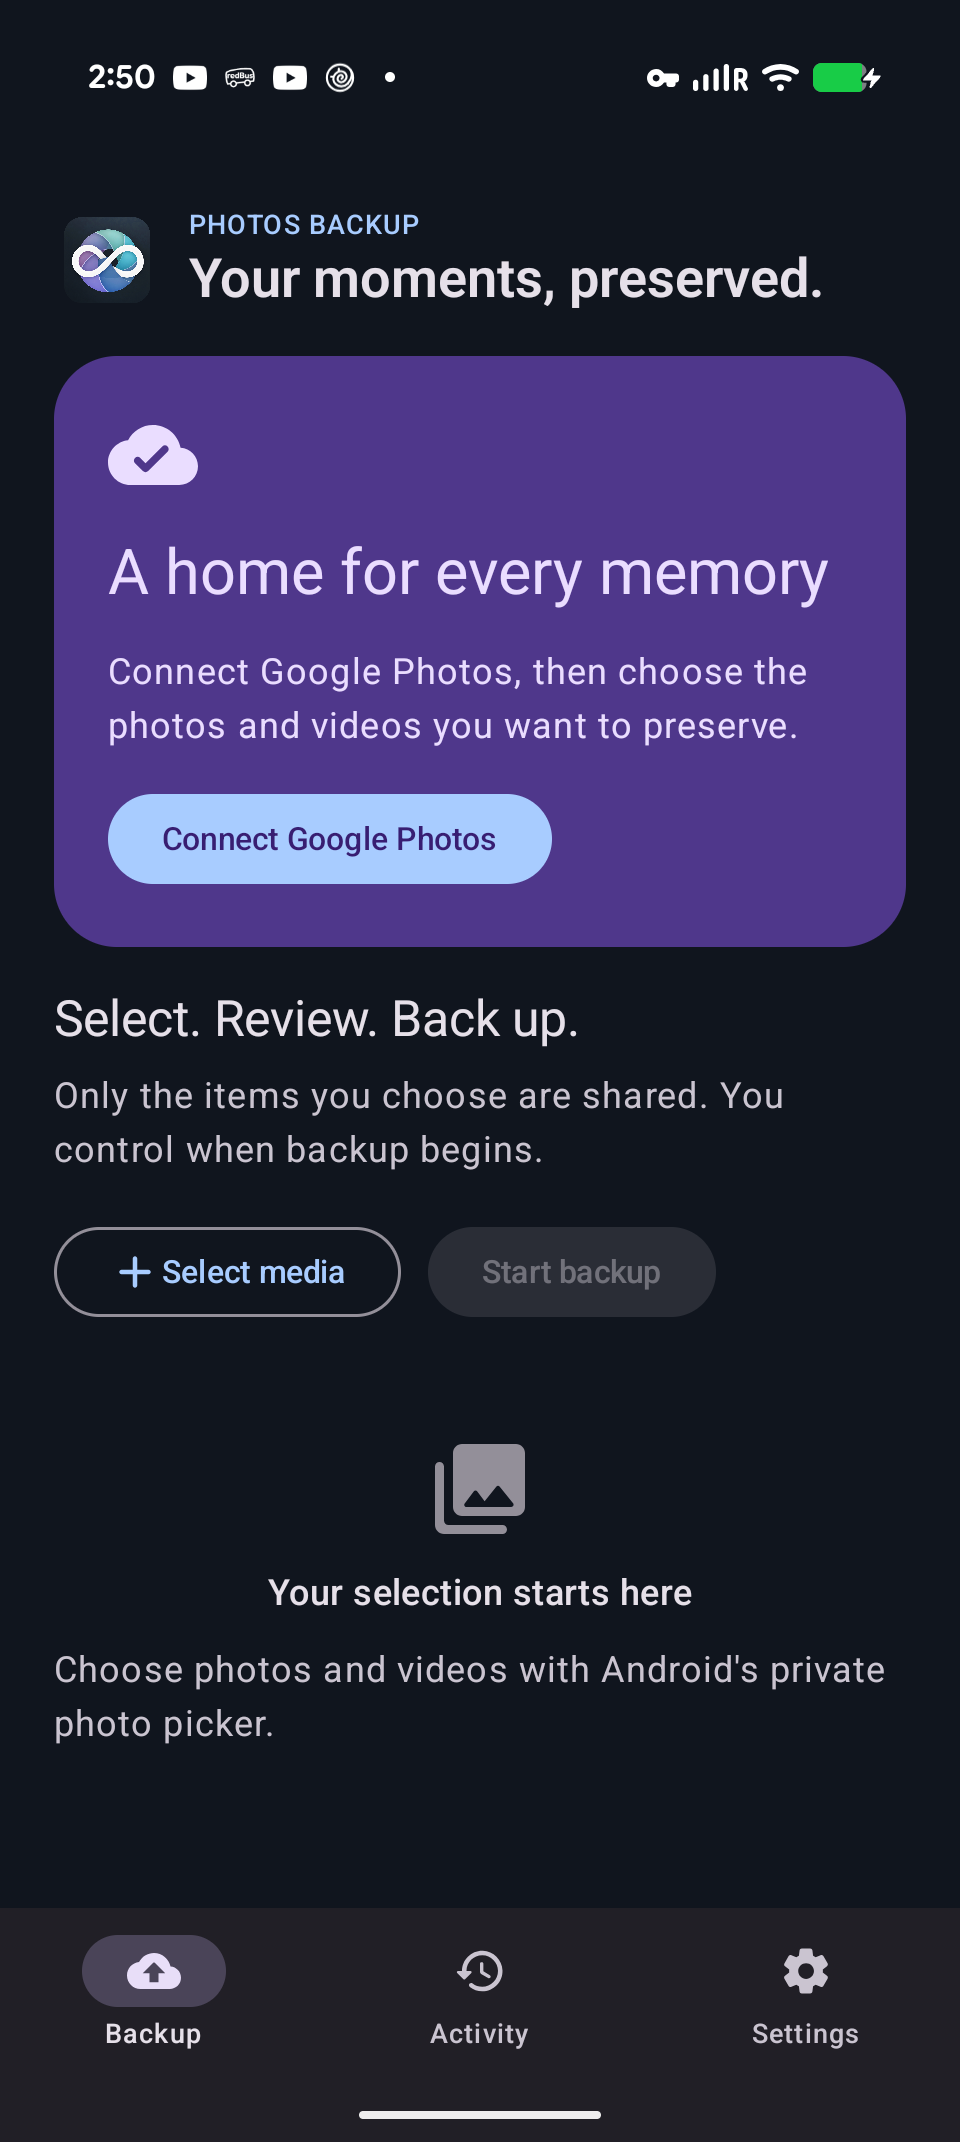
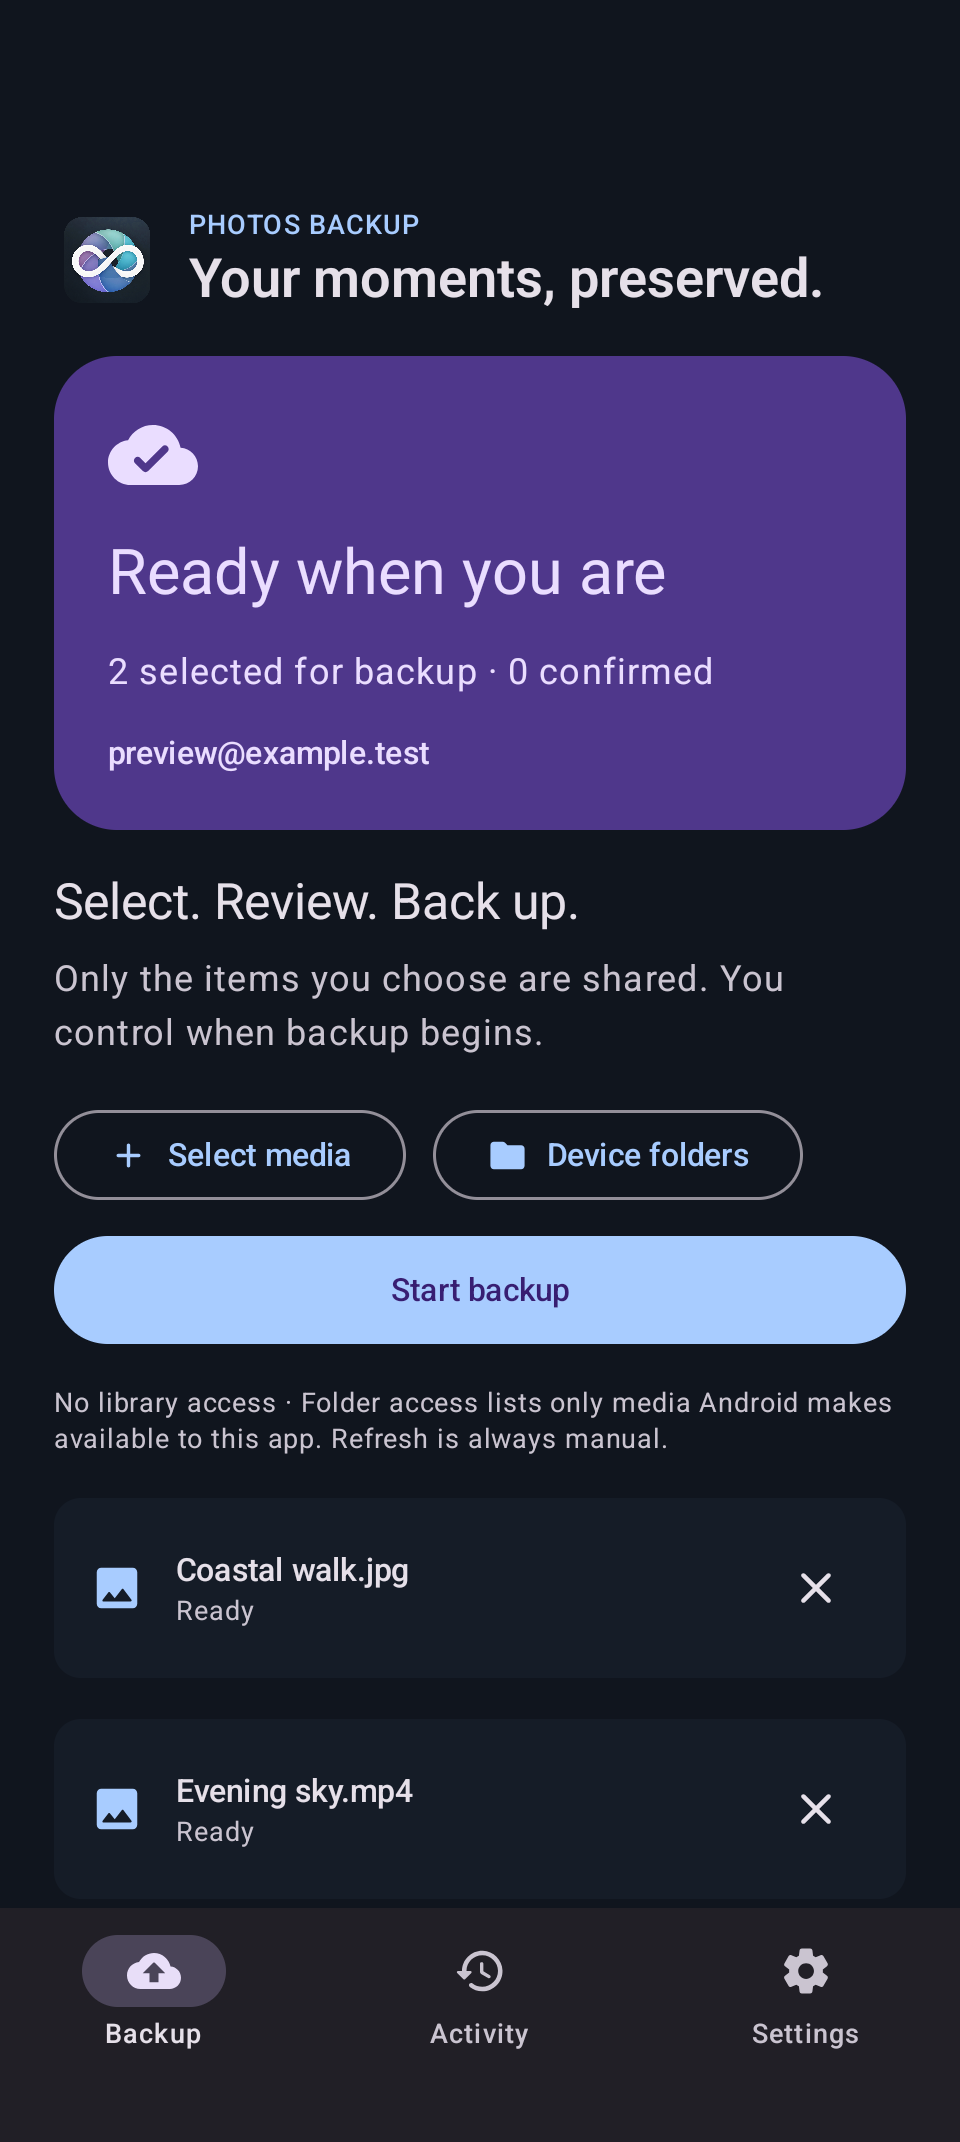
docs: show verified Android layout and device results

diff --git a/docs/VALIDATION-v0.5.0.md b/docs/VALIDATION-v0.5.0.md
@@ -8,13 +8,13 @@ Checked on 16 October 2026. These results describe a preview; v0.4.0 remains the
 | Windows connected Pixel import | Production portable-storage scan and staging passed; one synthetic PNG uploaded and its Google original matched all 329 bytes and SHA-256. |
 | Windows connected iPhone import | The same disposable HEIC staged correctly; Google recognized the existing item and a fresh original download matched all bytes and SHA-256. |
 | Windows long paths | 55 targeted native tests passed, including two real paths longer than 260 characters. Fresh Google original verification also passed against the Pixel fixture at a 263-character source path. |
-| Android folder selection and album mirroring | Signed preview installed over the existing app after verifying the signing certificate; physical UI check pending. |
+| Android folder selection and album mirroring | Signed preview installed with matching certificate; 20 debug instrumentation tests passed on the Pixel, including compact-width and 200% text geometry. The owner confirmed successful real folder backup and the correct Google Photos album/test PNG. The Start backup layout defect confirmed through scrcpy is fixed; all focused layout tests pass. The signed update was installed and its full Backup screen verified through scrcpy, with the existing account and confirmed items retained. |
 | iCloud reclaim | Automated checks pass; live disposable-fixture deletion/recovery validation pending. |
 
 The Windows checks invoked the actual production device source, stager, backup coordinator and packaged bridge through a private CLI harness. They do not establish a live GUI click-through test; the available Parallels UI control failed. The harness used isolated backup state and existing sign-in without changing production history or settings. All source photos were retained.
 
 Live testing found and fixed inaccessible MTP child folders, repeated iPhone device objects, and Python access to long Windows paths. Inaccessible entries produce an incomplete-list warning. Duplicate objects are identified by device object ID, not filename. The long-path fix preserves IDs, filenames and album names without changing Windows global policy.
 
-Evidence commits: Windows device source `dd5786b`; long-path bridge `66bf189`; duplicate-object fix `c77f333`. Windows ARM64 and x64 checks passed for `2d3f605` and `66bf189`; the integrated `a946aed` preview is undergoing its final checks.
+Evidence commits: Windows device source `dd5786b`; long-path bridge `66bf189`; duplicate-object fix `c77f333`. Windows ARM64 and x64 checks passed for the integrated `a946aed` preview, including the duplicate-object regression and installer verification.
 
 These finite tests verify the named fixtures and behavior. They do not guarantee future Google Photos quota treatment or arbitrary-device compatibility. Upstream credits are listed in [Acknowledgements](../ACKNOWLEDGEMENTS.md).

diff --git a/README.md b/README.md
@@ -31,7 +31,7 @@ On 16 October 2026, a photo and video from each supported platform were read bac
 
 ## Upcoming v0.5.0 preview
 
-These capabilities are being prepared for v0.5.0 and are not part of the v0.4.0 downloads above. Disposable files passed import and byte-for-byte Google original readback: iPhone on Mac, and iPhone and Pixel through Windows production components. Android folder-backup UI and synthetic iCloud reclaim checks remain pending. [Preview validation](docs/VALIDATION-v0.5.0.md).
+These capabilities are being prepared for v0.5.0 and are not part of the v0.4.0 downloads above. Disposable files passed import and byte-for-byte Google original readback: iPhone on Mac, and iPhone and Pixel through Windows production components. Android folder backup and album creation passed the owner’s on-device check, and its responsive layout passed device tests and scrcpy inspection. Live iCloud reclaim validation remains pending. [Preview validation](docs/VALIDATION-v0.5.0.md).
 
 - **Android:** select accessible MediaStore folders and mirror them as Google Photos albums. These are device folders, not logical Google albums. Android's partial-media permission means only media you granted the app can appear.
 - **macOS:** import selected originals from a connected, unlocked and trusted iPhone or camera through DCIM/Image Capture. This is file import, not PhotoKit album access or cloud-only media.
@@ -54,7 +54,9 @@ Screenshots use synthetic data; they are not live-upload evidence.
 
 <details><summary>Android and dark mode</summary>
 
-<img src="docs/android-overview-dark.png" width="280" alt="Android backup screen in dark mode">
+<img src="docs/android-overview-dark.png" width="280" alt="Android preview with full-width backup action and synthetic media">
+
+Android image shows the v0.5.0 preview with synthetic account and media data.
 
 ![macOS dark mode](docs/menu-bar-panel-backing-up-dark.png)
 
